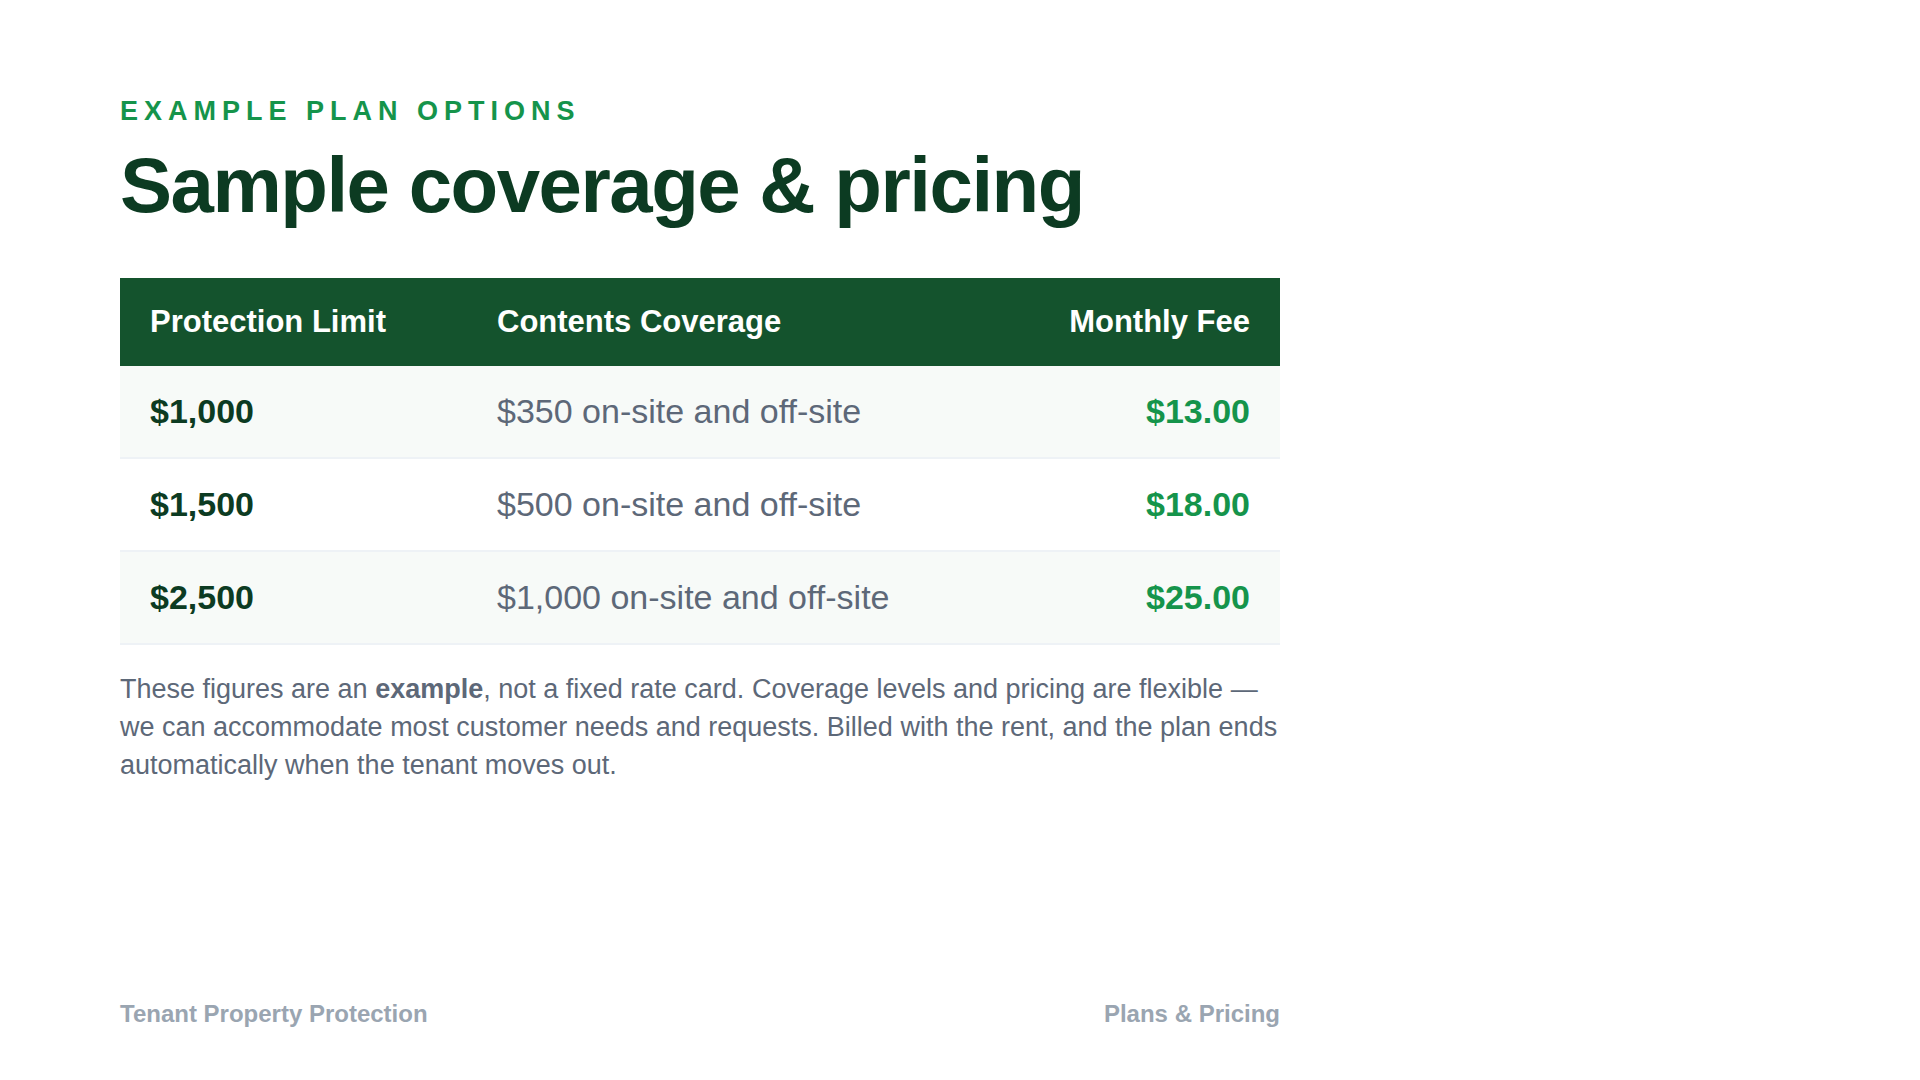
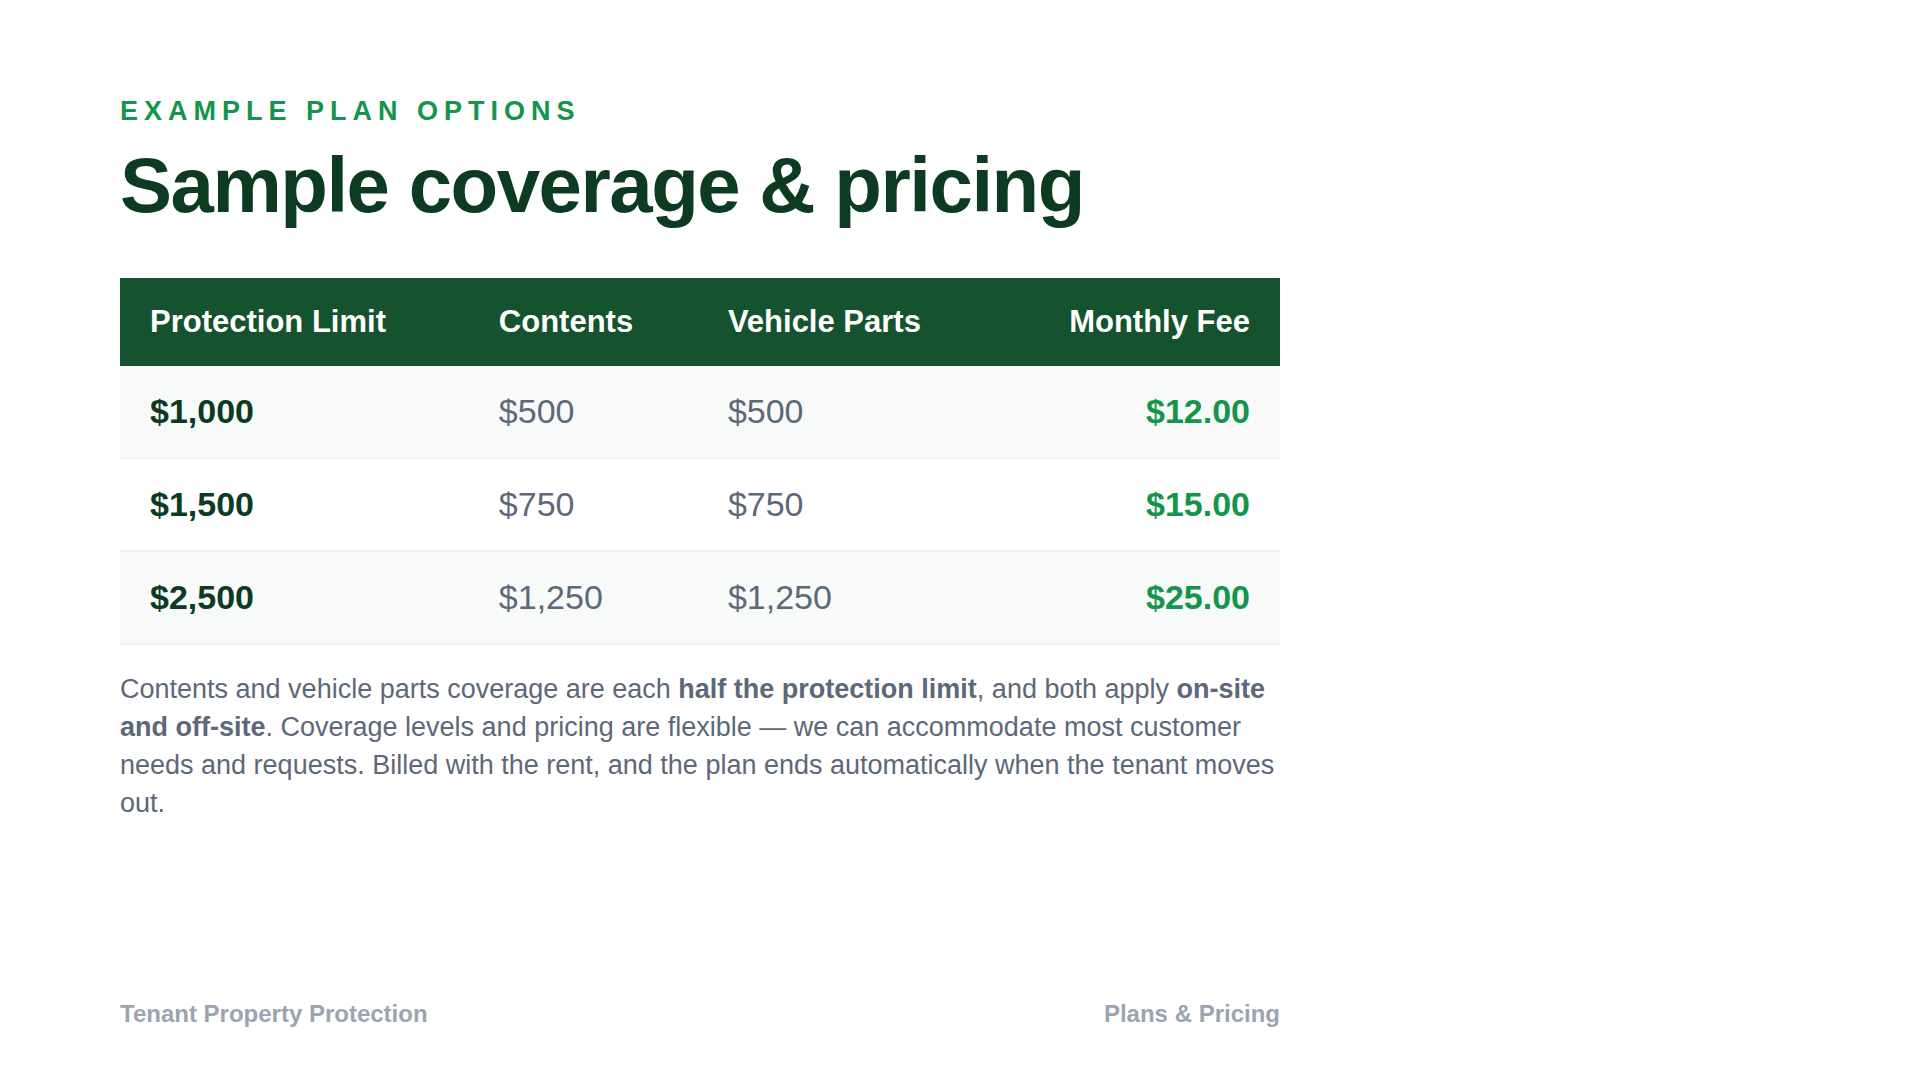
Add a section on the addendum, as the third part of each course
The tenant picks a level in section two, so the form that records it now
follows immediately: the Tenant Responsibility Addendum, with its own
knowledge check. Six sections and six checks per course.

For RV Park 'n' Protect it carries the two numbers managers are asked for
most and could not previously answer from the video: contents coverage and
additional vehicle parts coverage are each half the protection limit, and
both apply off-site as well as on — a catalytic converter taken while the
tenant is away for the weekend is covered up to the parts sublimit.

That also settles RV's rates against its addendum: $12, $15 and $25, with
contents and parts at $500/$750/$1,250. Sections one and two quoted $13 a
month and contents "from $350", so both are re-recorded rather than left
to contradict the new section. TPP Secure keeps the rates it already
quotes; its addendum moved to match instead.

Claude-Session: https://claude.ai/code/session_01SVBeaJqqY1w1riJ9JWxQJ1

diff --git a/index.html b/index.html
@@ -1279,8 +1279,8 @@ if (CLIENT && CLIENT.optOut) renderOptOut();
     { t:'Watch it through',
       d:'Pause, rewind and fast-forward freely. The video stops at each knowledge check until it\u2019s answered.' },
     { t:'Pass the knowledge checks',
-      d:'Five checks and twenty questions per course, spread through the video rather than saved for the end. ' +
-        'The final one covers the tenant opt-out process.' },
+      d:'Six checks and twenty-four questions per course, spread through the video rather than saved for the end. ' +
+        'One covers the addendum the tenant signs; the last covers the opt-out process.' },
     { t:'Certificate & report',
       d:'Print the completion certificate, then hit \u201cReport my completion\u201d so it reaches your training record.' }
   ];
@@ -1310,7 +1310,7 @@ $('#vids').innerHTML = VIDEOS_SHOWN.map((v,i) => `
         <p class="vdesc">${v.desc}</p>
         <div class="vmeta">
           <span class="pill">${v.len}</span>
-          <span class="pill">5 knowledge checks</span>
+          <span class="pill">6 knowledge checks</span>
           <span class="pill">Completion certificate</span>
         </div>
       </div>
@@ -1736,7 +1736,7 @@ const MEREDITH = {
   /* ---------- training ---------- */
   { id:'training-first', t:'Which training video should we watch?',
     k:['which video','which training','what should i watch','training first','where do i start','courses','video'],
-    a:"Watch the one that matches <b>your</b> program — that's the only one you strictly need. If you offer more than one plan, work through each in any order.<br><br>Each runs under 20 minutes, pauses at five short knowledge checks, and ends with a printable certificate. Not sure which program you're on? Teon can confirm it in a moment.",
+    a:"Watch the one that matches <b>your</b> program — that's the only one you strictly need. If you offer more than one plan, work through each in any order.<br><br>Each runs under 20 minutes, pauses at six short knowledge checks, and ends with a printable certificate. Not sure which program you're on? Teon can confirm it in a moment.",
     chips:['who-trains','certificate','contact'] },
 
   { id:'who-trains', t:'Who needs to complete the training?',

diff --git a/tools/slides/gen_rv.py b/tools/slides/gen_rv.py
@@ -79,13 +79,14 @@ add('03-covers', """<div class='kick'>What the program covers</div>
 add('04-pricing', """<div class='kick'>Example plan options</div>
 <h1>Sample coverage &amp; pricing</h1>
 <table>
-<tr><th>Protection Limit</th><th>Contents Coverage</th><th>Monthly Fee</th></tr>
-<tr><td>$1,000</td><td style='font-weight:400;color:#5d6878'>$350 on-site and off-site</td><td class='fee'>$13.00</td></tr>
-<tr><td>$1,500</td><td style='font-weight:400;color:#5d6878'>$500 on-site and off-site</td><td class='fee'>$18.00</td></tr>
-<tr><td>$2,500</td><td style='font-weight:400;color:#5d6878'>$1,000 on-site and off-site</td><td class='fee'>$25.00</td></tr>
+<tr><th>Protection Limit</th><th>Contents</th><th>Vehicle Parts</th><th>Monthly Fee</th></tr>
+<tr><td>$1,000</td><td style='font-weight:400;color:#5d6878'>$500</td><td style='font-weight:400;color:#5d6878'>$500</td><td class='fee'>$12.00</td></tr>
+<tr><td>$1,500</td><td style='font-weight:400;color:#5d6878'>$750</td><td style='font-weight:400;color:#5d6878'>$750</td><td class='fee'>$15.00</td></tr>
+<tr><td>$2,500</td><td style='font-weight:400;color:#5d6878'>$1,250</td><td style='font-weight:400;color:#5d6878'>$1,250</td><td class='fee'>$25.00</td></tr>
 </table>
-<div class='note'>These figures are an <b>example</b>, not a fixed rate card. Coverage levels and pricing are flexible &mdash;
-we can accommodate most customer needs and requests. Billed with the rent, and the plan ends automatically when the tenant moves out.</div>""",
+<div class='note'>Contents and vehicle parts coverage are each <b>half the protection limit</b>, and both apply
+<b>on-site and off-site</b>. Coverage levels and pricing are flexible &mdash; we can accommodate most customer needs and
+requests. Billed with the rent, and the plan ends automatically when the tenant moves out.</div>""",
 "Plans &amp; Pricing")
 
 add('05-present', """<div class='kick'>Lead with these</div>
@@ -249,6 +250,36 @@ add('18-contact', """<div class='kick'>You&rsquo;ve got questions? We&rsquo;ve g
 </div>
 <div class='note' style='margin-top:20px'>Training support is always free, and there is no limit on it.</div>""",
 "Support")
+
+add('19-addendum', """<div class='kick'>What the tenant signs</div>
+<h1>The RV Park &lsquo;n&rsquo; Protect addendum</h1>
+<div class='lede'>One page. It records the space, the vehicles in it, and the level of protection chosen.</div>
+<div class='rows'>
+ <div class='row'><div class='ic'>1</div><div><div class='t'>The protection limit they chose</div>
+   <div class='d'>$1,000, $1,500 or $2,500 &mdash; initialled on that line.</div></div></div>
+ <div class='row'><div class='ic'>2</div><div><div class='t'>Every vehicle and licence plate in the space</div>
+   <div class='d'>Written on the addendum. This is what a claim is validated against.</div></div></div>
+ <div class='row'><div class='ic'>3</div><div><div class='t'>Their signature</div>
+   <div class='d'>Proof the plan was offered. Retained with the lease either way.</div></div></div>
+</div>
+<div class='flag'>Burglary still needs visible signs of forced entry and a police report.</div>""",
+"The Addendum")
+
+add('20-addendum-sublimits', """<div class='kick'>The two numbers tenants ask about</div>
+<h1>Contents and vehicle parts &mdash; <em>half</em> the limit</h1>
+<table>
+<tr><th>Protection Limit</th><th>Contents Coverage</th><th>Vehicle Parts Coverage</th></tr>
+<tr><td>$1,000</td><td class='fee'>$500</td><td class='fee'>$500</td></tr>
+<tr><td>$1,500</td><td class='fee'>$750</td><td class='fee'>$750</td></tr>
+<tr><td>$2,500</td><td class='fee'>$1,250</td><td class='fee'>$1,250</td></tr>
+</table>
+<div class='rows' style='margin-top:34px'>
+ <div class='row'><div class='ic'>&#10003;</div><div><div class='t'>Contents are covered off-site too</div>
+   <div class='d'>Stolen items from inside the stored property &mdash; on your lot or away from it.</div></div></div>
+ <div class='row'><div class='ic'>&#10003;</div><div><div class='t'>So are stolen vehicle parts</div>
+   <div class='d'>Replacement up to the parts sublimit, on-site and off-site.</div></div></div>
+</div>""",
+"The Addendum")
 
 for n,h in S: (OUT/f"{n}.html").write_text(h, encoding='utf-8')
 print("wrote", len(S), "RV slides")

diff --git a/tools/slides/gen_secure.py b/tools/slides/gen_secure.py
@@ -265,6 +265,32 @@ add('20-contact', f"""<img class='brand' src='{LOGO}'>
 <li>Monday&ndash;Friday, 7:00 AM &ndash; 5:30 PM Arizona time</li></ul>
 <div class='sub' style='font-size:28px;margin-top:30px'>Training support is always free, and there is no limit on it.</div>""")
 
+add('21-addendum', f"""<img class='brand' src='{LOGO}'>
+<div class='kick'>What the tenant signs</div>
+<h1>The Tenant Responsibility Addendum</h1>
+<div class='sub'>One page that does three jobs &mdash; and the signature is the one that protects you.</div>
+<div class='steps'>
+  <div class='step'><div class='n'>1</div><p><b>Records the level they chose</b><br>$2,000 at $12, $3,000 at $15,
+    or $5,000 at $25 a month &mdash; initialled on that line</p></div>
+  <div class='step'><div class='n'>2</div><p><b>Lists what the plan covers</b><br>Printed on the page the tenant
+    is signing, so there is no argument later</p></div>
+  <div class='step'><div class='n'>3</div><p><b>Proves it was offered</b><br>Signed whether they take the plan or
+    show their own policy. Retained with the lease</p></div>
+</div>
+<div class='warn'>&ldquo;Nobody ever offered me that.&rdquo; The signed addendum in the file is the answer.</div>""")
+
+add('22-addendum-detail', f"""<img class='brand' src='{LOGO}'>
+<div class='kick'>Two details to know by heart</div>
+<h1>Burglary, water &mdash; and the inventory</h1>
+<ul>
+<li><b>Burglary</b> must show <b>visible signs of forced entry</b> and be reported to the police and to you.
+    A <b>disc or cylinder lock waives the burglary deductible</b> &mdash; worth saying when a tenant buys a lock.</li>
+<li><b>Water damage does not include flood or surface water.</b> That is the National Flood Program, not this plan.</li>
+<li><b>The inventory is the tenant&rsquo;s responsibility.</b> They keep the list, the photos and the receipts &mdash;
+    that is what establishes a baseline if they ever claim.</li>
+</ul>
+<div class='warn'>Rodent damage is covered on this addendum too &mdash; up to a $500 sublimit.</div>""")
+
 out=pathlib.Path(os.path.dirname(os.path.abspath(__file__)))/'html-secure'; out.mkdir(exist_ok=True)
 for n,h in S: (out/f"{n}.html").write_text(h, encoding='utf-8')
 print("wrote", len(S), "slides")
